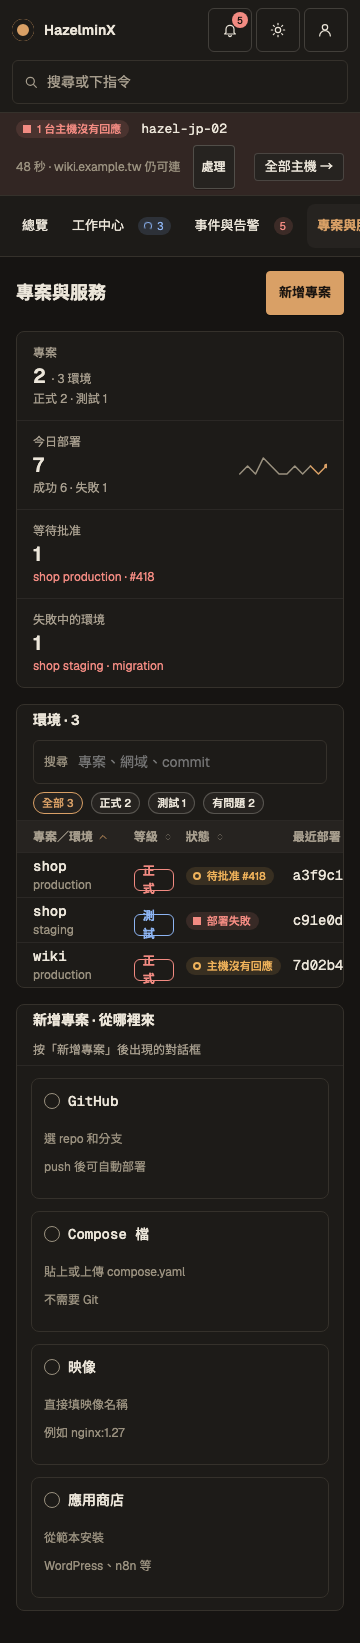
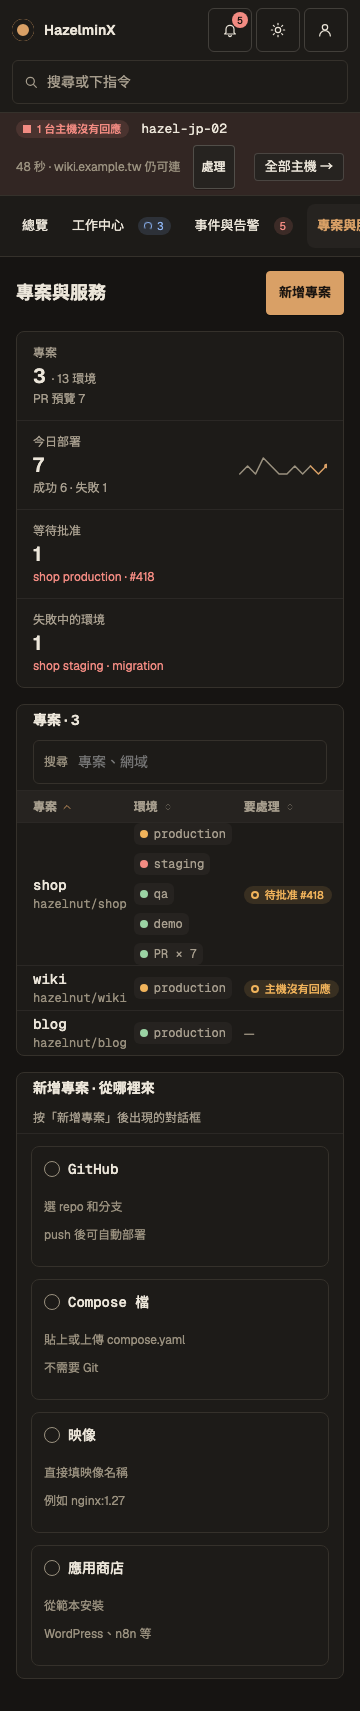
design: list projects, not environments, on the projects page

diff --git a/design/screens/Projects.dc.html b/design/screens/Projects.dc.html
@@ -498,13 +498,13 @@ body{margin:0}
     <div class="phead">
       <h1>專案與服務</h1>
       <div class="wrap" style="margin-left: auto"><a class="btn pri" href="GitHubSource.dc.html">新增專案</a></div>
-    </div><div class="tiles"><div class="tile"><span class="l">專案</span><span class="v">2<small>· 3 環境</small></span><span class="tdl"><span class="">正式 2 · 測試 1</span></span></div><div class="tile"><span class="l">今日部署</span><span class="v">7</span><span class="tdl"><span class="">成功 6 · 失敗 1</span></span><svg class="sp" width="120" height="26" viewBox="0 0 120 26" aria-hidden="true" style="display:block;max-width:100%"><path d="M1.0,24.0 L11.7,13.0 L22.5,24.0 L33.2,2.0 L43.9,13.0 L54.6,24.0 L65.4,24.0 L76.1,13.0 L86.8,24.0 L97.5,13.0" fill="none" stroke="var(--faint)" stroke-width="2" stroke-linejoin="round" stroke-linecap="round"/><path d="M97.5,13.0 L108.3,24.0 L119.0,13.0" fill="none" stroke="var(--hazel)" stroke-width="2" stroke-linejoin="round" stroke-linecap="round"/><circle cx="119.0" cy="13.0" r="3" fill="var(--hazel)"/></svg></div><div class="tile"><span class="l">等待批准</span><span class="v">1</span><span class="tdl"><span class="dn">shop production · #418</span></span></div><div class="tile"><span class="l">失敗中的環境</span><span class="v">1</span><span class="tdl"><span class="dn">shop staging · migration</span></span></div></div>
+    </div><div class="tiles"><div class="tile"><span class="l">專案</span><span class="v">3<small>· 13 環境</small></span><span class="tdl"><span class="">PR 預覽 7</span></span></div><div class="tile"><span class="l">今日部署</span><span class="v">7</span><span class="tdl"><span class="">成功 6 · 失敗 1</span></span><svg class="sp" width="120" height="26" viewBox="0 0 120 26" aria-hidden="true" style="display:block;max-width:100%"><path d="M1.0,24.0 L11.7,13.0 L22.5,24.0 L33.2,2.0 L43.9,13.0 L54.6,24.0 L65.4,24.0 L76.1,13.0 L86.8,24.0 L97.5,13.0" fill="none" stroke="var(--faint)" stroke-width="2" stroke-linejoin="round" stroke-linecap="round"/><path d="M97.5,13.0 L108.3,24.0 L119.0,13.0" fill="none" stroke="var(--hazel)" stroke-width="2" stroke-linejoin="round" stroke-linecap="round"/><circle cx="119.0" cy="13.0" r="3" fill="var(--hazel)"/></svg></div><div class="tile"><span class="l">等待批准</span><span class="v">1</span><span class="tdl"><span class="dn">shop production · #418</span></span></div><div class="tile"><span class="l">失敗中的環境</span><span class="v">1</span><span class="tdl"><span class="dn">shop staging · migration</span></span></div></div>
     <section class="panel" aria-labelledby="h-plist" data-sort="0:asc">
-      <div class="ph"><h2 id="h-plist">環境 · 3</h2><div class="wrap" style="margin-left:auto"><label class="inp" style="min-width:220px"><span class="note">搜尋</span><input placeholder="專案、網域、commit" style="background:transparent;border:0;flex:1;min-width:0"></label><span class="chip on">全部 3</span><span class="chip">正式 2</span><span class="chip">測試 1</span><span class="chip">有問題 2</span></div></div>
-      <div class="tw" style="--tc:minmax(min(160px,34%),1fr) auto auto auto var(--k3,auto) var(--k6,auto) var(--k5,minmax(160px,2fr)) auto"><div class="row hd r0"><span class=""><span class="sortable on">專案／環境 <svg viewBox="0 0 24 24" width="12" height="12" fill="none" stroke="currentColor" stroke-width="1.8" stroke-linecap="round" stroke-linejoin="round" aria-hidden="true"><path d="m6 15 6-6 6 6"/></svg></span></span><span class=""><span class="sortable">等級 <svg viewBox="0 0 24 24" width="12" height="12" fill="none" stroke="currentColor" stroke-width="1.8" stroke-linecap="round" stroke-linejoin="round" aria-hidden="true"><path d="m8 10 4-4 4 4"/><path d="m8 14 4 4 4-4"/></svg></span></span><span class=""><span class="sortable">狀態 <svg viewBox="0 0 24 24" width="12" height="12" fill="none" stroke="currentColor" stroke-width="1.8" stroke-linecap="round" stroke-linejoin="round" aria-hidden="true"><path d="m8 10 4-4 4 4"/><path d="m8 14 4 4 4-4"/></svg></span></span><span class=""><span class="sortable">最近部署 <svg viewBox="0 0 24 24" width="12" height="12" fill="none" stroke="currentColor" stroke-width="1.8" stroke-linecap="round" stroke-linejoin="round" aria-hidden="true"><path d="m8 10 4-4 4 4"/><path d="m8 14 4 4 4-4"/></svg></span></span><span class="c3"><span class="sortable">主機 <svg viewBox="0 0 24 24" width="12" height="12" fill="none" stroke="currentColor" stroke-width="1.8" stroke-linecap="round" stroke-linejoin="round" aria-hidden="true"><path d="m8 10 4-4 4 4"/><path d="m8 14 4 4 4-4"/></svg></span></span><span class="c6">入口</span><span class="c5">近 24 次部署</span><span class=""></span></div>
-      <a class="row r0" href="ProjectDetail.dc.html"><span class="name"><span class="n">shop</span><span class="d">production</span></span><span><span class="tier dng" data-tip="用途等級：正式">正式</span></span><span><span class="st warn"><i aria-hidden="true"></i>待批准 #418</span></span><span class="mono">a3f9c1e <span class="note">02:57</span></span><span class="mono c3">tw-01</span><span class="c6">shop.example.tw</span><span class="c5"><div class="timeline" role="img" aria-label="部署歷史：22 成功、1 失敗、1 回滾"><i class="" title="第 1 段 · 成功"></i><i class="" title="第 2 段 · 成功"></i><i class="" title="第 3 段 · 成功"></i><i class="" title="第 4 段 · 成功"></i><i class="" title="第 5 段 · 成功"></i><i class="" title="第 6 段 · 成功"></i><i class="" title="第 7 段 · 成功"></i><i class="" title="第 8 段 · 成功"></i><i class="f" title="第 9 段 · 失敗"></i><i class="" title="第 10 段 · 成功"></i><i class="" title="第 11 段 · 成功"></i><i class="" title="第 12 段 · 成功"></i><i class="" title="第 13 段 · 成功"></i><i class="" title="第 14 段 · 成功"></i><i class="" title="第 15 段 · 成功"></i><i class="" title="第 16 段 · 成功"></i><i class="" title="第 17 段 · 成功"></i><i class="" title="第 18 段 · 成功"></i><i class="" title="第 19 段 · 成功"></i><i class="" title="第 20 段 · 成功"></i><i class="" title="第 21 段 · 成功"></i><i class="" title="第 22 段 · 成功"></i><i class="r" title="第 23 段 · 回滾"></i><i class="" title="第 24 段 · 成功"></i></div></span><span class="wrap" style="justify-content:flex-end;flex-wrap:nowrap"><button type="button" class="btn sm">檢視 #418</button><button type="button" class="ib" aria-label="更多動作"><svg viewBox="0 0 24 24" width="16" height="16" fill="none" stroke="currentColor" stroke-width="1.8" stroke-linecap="round" stroke-linejoin="round" aria-hidden="true"><circle cx="6" cy="12" r="1.2"/><circle cx="12" cy="12" r="1.2"/><circle cx="18" cy="12" r="1.2"/></svg></button></span></a>
-      <a class="row r0" href="ProjectDetail.dc.html"><span class="name"><span class="n">shop</span><span class="d">staging</span></span><span><span class="tier info" data-tip="用途等級：測試">測試</span></span><span><span class="st dng"><i aria-hidden="true"></i>部署失敗</span></span><span class="mono">c91e0d7 <span class="note">03:12</span></span><span class="mono c3">lab-mini</span><span class="c6">staging.shop.example.tw</span><span class="c5"><div class="timeline" role="img" aria-label="部署歷史：18 成功、6 失敗"><i class="" title="第 1 段 · 成功"></i><i class="" title="第 2 段 · 成功"></i><i class="" title="第 3 段 · 成功"></i><i class="" title="第 4 段 · 成功"></i><i class="f" title="第 5 段 · 失敗"></i><i class="" title="第 6 段 · 成功"></i><i class="" title="第 7 段 · 成功"></i><i class="" title="第 8 段 · 成功"></i><i class="" title="第 9 段 · 成功"></i><i class="" title="第 10 段 · 成功"></i><i class="" title="第 11 段 · 成功"></i><i class="" title="第 12 段 · 成功"></i><i class="" title="第 13 段 · 成功"></i><i class="" title="第 14 段 · 成功"></i><i class="f" title="第 15 段 · 失敗"></i><i class="" title="第 16 段 · 成功"></i><i class="" title="第 17 段 · 成功"></i><i class="" title="第 18 段 · 成功"></i><i class="" title="第 19 段 · 成功"></i><i class="" title="第 20 段 · 成功"></i><i class="f" title="第 21 段 · 失敗"></i><i class="f" title="第 22 段 · 失敗"></i><i class="f" title="第 23 段 · 失敗"></i><i class="f" title="第 24 段 · 失敗"></i></div></span><span class="wrap" style="justify-content:flex-end;flex-wrap:nowrap"><button type="button" class="btn sm">看日誌</button><button type="button" class="ib" aria-label="更多動作"><svg viewBox="0 0 24 24" width="16" height="16" fill="none" stroke="currentColor" stroke-width="1.8" stroke-linecap="round" stroke-linejoin="round" aria-hidden="true"><circle cx="6" cy="12" r="1.2"/><circle cx="12" cy="12" r="1.2"/><circle cx="18" cy="12" r="1.2"/></svg></button></span></a>
-      <a class="row r0" href="ProjectDetail.dc.html"><span class="name"><span class="n">wiki</span><span class="d">production</span></span><span><span class="tier dng" data-tip="用途等級：正式">正式</span></span><span><span class="st warn"><i aria-hidden="true"></i>主機沒有回應</span></span><span class="mono">7d02b4a <span class="note">1 天前</span></span><span class="mono c3">jp-02</span><span class="c6">wiki.example.tw</span><span class="c5"><div class="timeline" role="img" aria-label="部署歷史：24 成功"><i class="" title="第 1 段 · 成功"></i><i class="" title="第 2 段 · 成功"></i><i class="" title="第 3 段 · 成功"></i><i class="" title="第 4 段 · 成功"></i><i class="" title="第 5 段 · 成功"></i><i class="" title="第 6 段 · 成功"></i><i class="" title="第 7 段 · 成功"></i><i class="" title="第 8 段 · 成功"></i><i class="" title="第 9 段 · 成功"></i><i class="" title="第 10 段 · 成功"></i><i class="" title="第 11 段 · 成功"></i><i class="" title="第 12 段 · 成功"></i><i class="" title="第 13 段 · 成功"></i><i class="" title="第 14 段 · 成功"></i><i class="" title="第 15 段 · 成功"></i><i class="" title="第 16 段 · 成功"></i><i class="" title="第 17 段 · 成功"></i><i class="" title="第 18 段 · 成功"></i><i class="" title="第 19 段 · 成功"></i><i class="" title="第 20 段 · 成功"></i><i class="" title="第 21 段 · 成功"></i><i class="" title="第 22 段 · 成功"></i><i class="" title="第 23 段 · 成功"></i><i class="" title="第 24 段 · 成功"></i></div></span><span class="wrap" style="justify-content:flex-end;flex-wrap:nowrap"><button type="button" class="btn sm">部署</button><button type="button" class="ib" aria-label="更多動作"><svg viewBox="0 0 24 24" width="16" height="16" fill="none" stroke="currentColor" stroke-width="1.8" stroke-linecap="round" stroke-linejoin="round" aria-hidden="true"><circle cx="6" cy="12" r="1.2"/><circle cx="12" cy="12" r="1.2"/><circle cx="18" cy="12" r="1.2"/></svg></button></span></a></div>
+      <div class="ph"><h2 id="h-plist">專案 · 3</h2><label class="inp" style="min-width:min(220px,100%);margin-left:auto"><span class="note">搜尋</span><input placeholder="專案、網域" style="background:transparent;border:0;flex:1;min-width:0" aria-label="搜尋專案"></label></div>
+      <div class="tw" style="--tc:minmax(min(160px,34%),1fr) auto var(--k3,auto) var(--k4,auto) auto auto"><div class="row hd r0"><span class=""><span class="sortable on">專案 <svg viewBox="0 0 24 24" width="12" height="12" fill="none" stroke="currentColor" stroke-width="1.8" stroke-linecap="round" stroke-linejoin="round" aria-hidden="true"><path d="m6 15 6-6 6 6"/></svg></span></span><span class=""><span class="sortable">環境 <svg viewBox="0 0 24 24" width="12" height="12" fill="none" stroke="currentColor" stroke-width="1.8" stroke-linecap="round" stroke-linejoin="round" aria-hidden="true"><path d="m8 10 4-4 4 4"/><path d="m8 14 4 4 4-4"/></svg></span></span><span class="c3"><span class="sortable">單元 <svg viewBox="0 0 24 24" width="12" height="12" fill="none" stroke="currentColor" stroke-width="1.8" stroke-linecap="round" stroke-linejoin="round" aria-hidden="true"><path d="m8 10 4-4 4 4"/><path d="m8 14 4 4 4-4"/></svg></span></span><span class="c4"><span class="sortable">最近部署 <svg viewBox="0 0 24 24" width="12" height="12" fill="none" stroke="currentColor" stroke-width="1.8" stroke-linecap="round" stroke-linejoin="round" aria-hidden="true"><path d="m8 10 4-4 4 4"/><path d="m8 14 4 4 4-4"/></svg></span></span><span class=""><span class="sortable">要處理 <svg viewBox="0 0 24 24" width="12" height="12" fill="none" stroke="currentColor" stroke-width="1.8" stroke-linecap="round" stroke-linejoin="round" aria-hidden="true"><path d="m8 10 4-4 4 4"/><path d="m8 14 4 4 4-4"/></svg></span></span><span class=""></span></div>
+      <a class="row r0" href="ProjectDetail.dc.html"><span class="name"><span class="n">shop</span><span class="d mono">hazelnut/shop</span></span><span class="wrap"><span class="at" style="gap:6px"><i aria-hidden="true" style="width:8px;height:8px;border-radius:50%;background:var(--warn);display:inline-block"></i><span class="mono">production</span></span><span class="at" style="gap:6px"><i aria-hidden="true" style="width:8px;height:8px;border-radius:50%;background:var(--danger);display:inline-block"></i><span class="mono">staging</span></span><span class="at" style="gap:6px"><i aria-hidden="true" style="width:8px;height:8px;border-radius:50%;background:var(--ok);display:inline-block"></i><span class="mono">qa</span></span><span class="at" style="gap:6px"><i aria-hidden="true" style="width:8px;height:8px;border-radius:50%;background:var(--ok);display:inline-block"></i><span class="mono">demo</span></span><span class="at" style="gap:6px"><i aria-hidden="true" style="width:8px;height:8px;border-radius:50%;background:var(--ok);display:inline-block"></i><span class="mono">PR × 7</span></span></span><span class="c3">3</span><span class="mono c4">a3f9c1e · 02:57</span><span><span class="st warn"><i aria-hidden="true"></i>待批准 #418</span></span><span><button type="button" class="ib" aria-label="更多動作"><svg viewBox="0 0 24 24" width="16" height="16" fill="none" stroke="currentColor" stroke-width="1.8" stroke-linecap="round" stroke-linejoin="round" aria-hidden="true"><circle cx="6" cy="12" r="1.2"/><circle cx="12" cy="12" r="1.2"/><circle cx="18" cy="12" r="1.2"/></svg></button></span></a>
+      <a class="row r0" href="ProjectDetail.dc.html"><span class="name"><span class="n">wiki</span><span class="d mono">hazelnut/wiki</span></span><span class="wrap"><span class="at" style="gap:6px"><i aria-hidden="true" style="width:8px;height:8px;border-radius:50%;background:var(--warn);display:inline-block"></i><span class="mono">production</span></span></span><span class="c3">1</span><span class="mono c4">7d02b4a · 1 天前</span><span><span class="st warn"><i aria-hidden="true"></i>主機沒有回應</span></span><span><button type="button" class="ib" aria-label="更多動作"><svg viewBox="0 0 24 24" width="16" height="16" fill="none" stroke="currentColor" stroke-width="1.8" stroke-linecap="round" stroke-linejoin="round" aria-hidden="true"><circle cx="6" cy="12" r="1.2"/><circle cx="12" cy="12" r="1.2"/><circle cx="18" cy="12" r="1.2"/></svg></button></span></a>
+      <a class="row r0" href="ProjectDetail.dc.html"><span class="name"><span class="n">blog</span><span class="d mono">hazelnut/blog</span></span><span class="wrap"><span class="at" style="gap:6px"><i aria-hidden="true" style="width:8px;height:8px;border-radius:50%;background:var(--ok);display:inline-block"></i><span class="mono">production</span></span></span><span class="c3">1</span><span class="mono c4">e81f0c3 · 3 天前</span><span><span class="note">—</span></span><span><button type="button" class="ib" aria-label="更多動作"><svg viewBox="0 0 24 24" width="16" height="16" fill="none" stroke="currentColor" stroke-width="1.8" stroke-linecap="round" stroke-linejoin="round" aria-hidden="true"><circle cx="6" cy="12" r="1.2"/><circle cx="12" cy="12" r="1.2"/><circle cx="18" cy="12" r="1.2"/></svg></button></span></a></div>
     </section>
     <section class="panel" aria-labelledby="h-newsrc">
       <div class="ph"><h2 id="h-newsrc">新增專案 · 從哪裡來</h2><span class="sub">按「新增專案」後出現的對話框</span></div>

diff --git a/design/tools/build_screens.py b/design/tools/build_screens.py
@@ -373,26 +373,30 @@ def node_detail() -> str:
 
 # ---------- 專案與服務 ----------
 def project_list() -> str:
-    """專案清單：一列一個環境，同專案的環境排在一起。專案一多（學 Railway／Coolify 的 project → environment），先挑再進去。"""
+    """專案清單：一列一個專案，環境是列裡的小標籤，點進專案再選環境。專案一多（學 Railway／Coolify 的 project → environment），先挑再進去。"""
     head = U.page_head("專案與服務", OBS, '<a class="btn pri" href="GitHubSource.dc.html">新增專案</a>')
     tiles = '<div class="tiles">' + "".join([
-        U.stat_tile("專案", "2", "· 3 環境", "正式 2 · 測試 1", None),
+        U.stat_tile("專案", "3", "· 13 環境", "PR 預覽 7", None),
         U.stat_tile("今日部署", "7", "", "成功 6 · 失敗 1", None, spark=[0, 1, 0, 2, 1, 0, 0, 1, 0, 1, 0, 1]),
         U.stat_tile("等待批准", "1", "", "shop production · #418", False),
         U.stat_tile("失敗中的環境", "1", "", "shop staging · migration", False),
     ]) + "</div>"
     more = f'<button type="button" class="ib" aria-label="更多動作">{U.icon("more")}</button>'
-    def env(proj, env_, tier, st, commit, when, node, domain, tl, acts):
-        return (f'<a class="row" href="ProjectDetail.dc.html"><span class="name"><span class="n">{proj}</span><span class="d">{env_}</span></span><span>{tier}</span><span>{st}</span>'
-                f'<span class="mono">{commit} <span class="note">{when}</span></span><span class="mono c3">{node}</span><span class="c6">{domain}</span><span class="c5">{U.state_timeline(tl)}</span><span class="wrap" style="justify-content:flex-end;flex-wrap:nowrap">{acts}</span></a>')
-    dep = '<button type="button" class="btn sm">部署</button>'
+    def chip(name, kind):
+        dot = {"ok": "var(--ok)", "warn": "var(--warn)", "dng": "var(--danger)"}[kind]
+        return (f'<span class="at" style="gap:6px"><i aria-hidden="true" style="width:8px;height:8px;border-radius:50%;background:{dot};display:inline-block"></i>'
+                f'<span class="mono">{name}</span></span>')
+    def proj(name, repo, envs, units, last, need):
+        return (f'<a class="row" href="ProjectDetail.dc.html"><span class="name"><span class="n">{name}</span><span class="d mono">{repo}</span></span>'
+                f'<span class="wrap">{"".join(chip(*e) for e in envs)}</span><span class="c3">{units}</span>'
+                f'<span class="mono c4">{last}</span><span>{need}</span><span>{more}</span></a>')
     table = f"""
     <section class="panel" aria-labelledby="h-plist" data-sort="0:asc">
-      <div class="ph"><h2 id="h-plist">環境 · 3</h2><div class="wrap" style="margin-left:auto"><label class="inp" style="min-width:220px"><span class="note">搜尋</span><input placeholder="專案、網域、commit" style="background:transparent;border:0;flex:1;min-width:0"></label><span class="chip on">全部 3</span><span class="chip">正式 2</span><span class="chip">測試 1</span><span class="chip">有問題 2</span></div></div>
-      <div class="row hd"><span>專案／環境</span><span>等級</span><span>狀態</span><span>最近部署</span><span class="c3">主機</span><span class="c6">入口</span><span class="c5">近 24 次部署</span><span></span></div>
-      {env("shop", "production", U.tier("正式"), U.status("warn", "待批准 #418"), "a3f9c1e", "02:57", "tw-01", "shop.example.tw", "oooooooofoooooooooooooro", '<button type="button" class="btn sm">檢視 #418</button>' + more)}
-      {env("shop", "staging", U.tier("測試"), U.status("dng", "部署失敗"), "c91e0d7", "03:12", "lab-mini", "staging.shop.example.tw", "oooofooooooooofoooooffff", '<button type="button" class="btn sm">看日誌</button>' + more)}
-      {env("wiki", "production", U.tier("正式"), U.status("warn", "主機沒有回應"), "7d02b4a", "1 天前", "jp-02", "wiki.example.tw", "oooooooooooooooooooooooo", dep + more)}
+      <div class="ph"><h2 id="h-plist">專案 · 3</h2><label class="inp" style="min-width:min(220px,100%);margin-left:auto"><span class="note">搜尋</span><input placeholder="專案、網域" style="background:transparent;border:0;flex:1;min-width:0" aria-label="搜尋專案"></label></div>
+      <div class="row hd"><span>專案</span><span>環境</span><span class="c3">單元</span><span class="c4">最近部署</span><span>要處理</span><span></span></div>
+      {proj("shop", "hazelnut/shop", [("production", "warn"), ("staging", "dng"), ("qa", "ok"), ("demo", "ok"), ("PR × 7", "ok")], "3", "a3f9c1e · 02:57", U.status("warn", "待批准 #418"))}
+      {proj("wiki", "hazelnut/wiki", [("production", "warn")], "1", "7d02b4a · 1 天前", U.status("warn", "主機沒有回應"))}
+      {proj("blog", "hazelnut/blog", [("production", "ok")], "1", "e81f0c3 · 3 天前", '<span class="note">—</span>')}
     </section>"""
     pick = f"""
     <section class="panel" aria-labelledby="h-newsrc">
